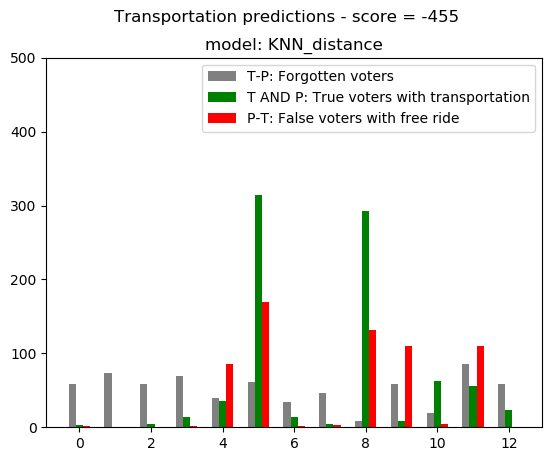
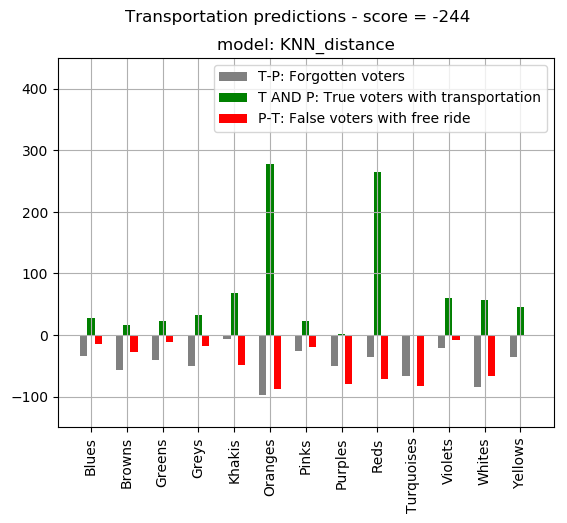
first part looks finished

diff --git a/report.tex b/report.tex
@@ -263,90 +263,79 @@ To visualize the prediction results on validation set we will use histogram of t
 
 \begin{figure}[htp]
 \centering
-\includegraphics[width=.3\textwidth]{Winner_party_plots/SVM_rbf_fig}\quad
-\includegraphics[width=.3\textwidth]{Winner_party_plots/KNN_distance_fig}\quad
-\includegraphics[width=.3\textwidth]{Winner_party_plots/Random_Forest_fig}
+\includegraphics[width=.4\textwidth]{Winner_party_plots/SVM_rbf_fig}
+\includegraphics[width=.4\textwidth]{Winner_party_plots/KNN_distance_fig}
+\includegraphics[width=.4\textwidth]{Winner_party_plots/Random_Forest_fig}
+\includegraphics[width=.4\textwidth]{Winner_party_plots/MLP[50]_fig}
 \caption{Votes distribution}
 \end{figure}
 
-Looking at the plots we can say that all 3 models predicted the winner party correctly, while SVM and KNN did it with the highest level of certainty, i.e. the majority of the samples where classified according to the real tag majority in the train set. Infinity norm of the prediction histogram of SVM is slightly higher, thus this model is the best model for winner prediction task.
-  
+Looking at the plots we can say that 3 models out of 4, predicted the winner party correctly, while SVM and KNN did it with the highest level of certainty, i.e. the majority of the samples where classified according to the real tag majority in the train set. Infinity norm of the prediction histogram of KNN is slightly higher, thus this model is the best model for winner prediction task.
+
+\newpage
 \subsection{Votes division}
 To visualize the prediction results on validation set we will use histogram of true labels of validation set and predicted labels. According to the metrics we choose for Votes division task, we are interested in model which achieved the smallest Euclidean Distance between the histograms. 
 
 \begin{figure}[htp]
 \centering
-\includegraphics[width=.3\textwidth]{Division_prediction_plots/SVM_rbf_fig}\quad
-\includegraphics[width=.3\textwidth]{Division_prediction_plots/KNN_distance_fig}\quad
-\includegraphics[width=.3\textwidth]{Division_prediction_plots/Random_Forest_fig}
-
+\includegraphics[width=.4\textwidth]{Division_prediction_plots/SVM_rbf_fig}\quad
+\includegraphics[width=.4\textwidth]{Division_prediction_plots/KNN_distance_fig}\quad
+\includegraphics[width=.4\textwidth]{Division_prediction_plots/Random_Forest_fig}
+\includegraphics[width=.4\textwidth]{Division_prediction_plots/MLP[50]_fig}
 \caption{Votes distribution}
 \end{figure}
 
-Looking at the plot we can clearly see that model performance corresponds to the chosen metrics, i.e. the euclidean norm. As stated in previous sections, the most similar histograms have the smallest euclidean distance. In conclusion, Random Forest classifier achieved best performance on validation set with final score of 104, which is the best score among other classifiers. 
+Looking at the plot we can clearly see that model performance corresponds to the chosen metrics, i.e. the euclidean norm. As stated in previous sections, the most similar histograms have the smallest euclidean distance. In conclusion, SVM classifier achieved best performance on validation set with final score of 69, which is the best score among other classifiers. 
 
+\newpage
 \subsection{Voters transportation}
 To visualize the prediction results on validation set we will use bar chart. Each color represents a set of one type, and the bar height, the size of the set. The grey color is a sets of "forgotten" voters, i.e. the voters who are willing to vote for a given party, but not been provided by a transportation. The red color is a sets of votes who are not voting for the party but still got a free ride. The green bar is the voters which will vote and actually get a transportation. Grey and the red bars height effects negativelly on the score, while green bar effects positively.    
 \begin{figure}[h]
 \centering
-\begin{subfigure}{0.3\textwidth}
-  \centering
-  \includegraphics[width=1\linewidth]{Vote_prediction_plots/SVM_rbf_fig.png}
-  \caption{SVM}
-  \label{fig:sub1}
-\end{subfigure}%
-\begin{subfigure}{0.3\textwidth}
-  \centering
-  \includegraphics[width=1\linewidth]{Vote_prediction_plots/KNN_distance_fig}
-  \caption{KNN}
-  \label{fig:sub1}
-\end{subfigure}%
-\begin{subfigure}{0.3\textwidth}
-  \centering
-  \includegraphics[width=1\linewidth]{Vote_prediction_plots/Random_Forest_fig}
-  \caption{Random forest}
-  \label{fig:sub2}
-\end{subfigure}
+\includegraphics[width=.4\linewidth]{Vote_prediction_plots/SVM_rbf_fig.png}
+\includegraphics[width=.4\linewidth]{Vote_prediction_plots/KNN_distance_fig}
+\includegraphics[width=.4\linewidth]{Vote_prediction_plots/Random_Forest_fig}
+\includegraphics[width=.4\linewidth]{Vote_prediction_plots/MLP[50]_fig}
 \caption{Models performance for transportation task}
 \label{fig:test}
 \end{figure}
 
-As we can see on the plots, first two models has very low negative performance score, which means according to their probability predictions the parties will not provide transportation to their potential voters or will give a free ride to people who doesn't want to vote for them. On the other hand, Random forest was much more accurate with it's probability predictions and provided each party a relatively large list of true potential voters. It's important to mention that the probability threshold we used is $0.4$, i.e. the person added to the party's list only if he will vote to this party with probability higher than $0.4$. \\
-\\
-Interestingly, the accuracy measurement of the model corresponds with the transportation task score, thus the model with highest accuracy got the best transportation score, and the model with lowest accuracy got the worst transportation score.
-\begin{verbatim}
-model  SVM_rbf reached  29.133 % accuracy.
-model  KNN_distance reached  25.667 % accuracy.
-model  Random_Forest reached  74.0 % accuracy.
-\end{verbatim}
+As we can see on the plots, KNN has very low negative performance score, which means according to it's probability predictions the parties will not provide transportation to their potential voters or will give a free ride to people who doesn't want to vote for them. On the other hand, MLP was much more accurate with it's probability predictions and provided each party a relatively large list of true potential voters. It's important to mention that the probability threshold we used is $0.5$, i.e. the person added to the party's list only if he will vote to this party with probability higher than $0.5$. Our implementation provides the functionality the set the probability threshold, so the best model for this task depends on this parameter and selected automatically. 
+
 
 \newpage
 \section{Final answers}
-In this section we provide the final answers for the first two prediction tasks and a confusion matrix of the vote prediction of each voter in a test set. 
+In this section we provide the final answers for the first two prediction tasks and a confusion matrix of the vote prediction of each voter in a test set. First of all the best models are:
+
+\begin{verbatim}
+best model for winner prediction is  KNN_distance
+best model for transportation is  MLP[50]
+best model for vote division is  SVM_rbf
+\end{verbatim}
 
 \subsection{Which party will win}
 As described previously, the best model for this task is SVM with RBF kernel, and its final prediction was:
 \begin{verbatim}
-SVM_rbf  prediction - Purples  party will win the elections.
+KNN_distance  prediction -  Purples  party will win the elections.
 \end{verbatim}
 
 \subsection{Votes division}
 As described previously, the best model for this task is Random Forest, and its final prediction was:
 \begin{verbatim}
-Random_Forest  prediction - Vote division:
-Party  Blues : 4.9 %
-Party  Browns : 9.6 %
-Party  Greens : 6.0 %
-Party  Greys : 7.1 %
-Party  Khakis : 25.3 %
-Party  Oranges : 3.7 %
-Party  Pinks : 2.1 %
-Party  Purples : 25.4 %
-Party  Reds : 3.7 %
-Party  Turquoises : 3.0 %
-Party  Violets : 1.3 %
-Party  Whites : 4.5 %
-Party  Yellows : 3.4 %
+SVM_rbf  prediction - Vote division:
+Party  Blues : 5.3 %
+Party  Browns : 8.4 %
+Party  Greens : 4.7 %
+Party  Greys : 6.7 %
+Party  Khakis : 21.5 %
+Party  Oranges : 5.8 %
+Party  Pinks : 3.9 %
+Party  Purples : 22.7 %
+Party  Reds : 5.3 %
+Party  Turquoises : 5.3 %
+Party  Violets : 2.8 %
+Party  Whites : 3.7 %
+Party  Yellows : 3.8 %
 \end{verbatim}
 
 \newpage

diff --git a/model_selector.py b/model_selector.py
@@ -13,7 +13,7 @@ PATH_WINNER_PARTY_PLOTS = 'Winner_party_plots'
 PATH_VOTE_PREDICTION_PLOTS = 'Vote_prediction_plots'
 PATH_DIVISION_PREDICTION_PLOTS = 'Division_prediction_plots'
 PATH_CONFUSION = 'confusion_matrix'
-THRESHOLD_PROBA = 0.4 #40%
+THRESHOLD_PROBA = 0.5 #50%
 EMPTY_DICT = {
     "12": set(),
     "11": set(),
@@ -66,6 +66,11 @@ class modelSelector():
     def get_best_winner_prediction_model(self):
         return self.best_model_for_winner_prediction
 
+    def score_accuracy(self, graphic=True):
+        for model, model_name in zip(self.model_list, self.model_names_list):
+            acc = model.score(self.x_val, self.y_val)
+            print("Model ", model_name, " reached ", np.round(acc*100,2), "% accuracy.")
+
     def score_who_win(self, graphic=True):
         '''
         === This is first mandatory prediction ===
@@ -92,7 +97,7 @@ class modelSelector():
 
             if graphic:
                 supttl = 'Winner party predictions'
-                ttl = 'model: ' + model_name + "inf norm=" + str(curr_norm)
+                ttl = 'model: ' + model_name + " inf norm=" + str(curr_norm)
                 path = PATH_WINNER_PARTY_PLOTS + '\\' + model_name + '_fig.png'
 
                 plot_hist(path, ttl, predictions, self.y_val.tolist(),
@@ -198,12 +203,18 @@ class modelSelector():
             if graphic:
                 index = np.arange(len(forgotten_voters_list))
                 bar_width = 0.2
+                forgotten_voters_list = [-1*i for i in forgotten_voters_list]
+                false_riders_list = [-1*i for i in false_riders_list]
                 plt.bar(index-bar_width, forgotten_voters_list, bar_width, color='grey', label='T-P: Forgotten voters')
                 plt.bar(index, intersec_list, bar_width, color='green', label='T AND P: True voters with transportation')
                 plt.bar(index+bar_width, false_riders_list, bar_width, color='red', label='P-T: False voters with free ride')
                 supttl = 'Transportation predictions - score = ' + str(score)
+                keys = list(self.party_dict.keys())
+                values = list(self.party_dict.values())
+                plt.xticks(keys, values, rotation='vertical')
                 plt.suptitle(supttl)
-                plt.ylim([0,500])
+                plt.ylim([-150,450])
+                plt.grid()
                 ttl = 'model: ' + model_name
                 plt.title(ttl)
                 plt.legend()
@@ -252,7 +263,7 @@ class modelSelector():
         class_names = []
         for key in range(self.num_of_classes):
             class_names.append(self.party_dict[key])
-        plot_confusion_matrix(self.y_test, predictions, title='Confusion matrix (of Random Forest)',classes=class_names)
+        plot_confusion_matrix(self.y_test, predictions, title='Confusion matrix of '+model_name, classes=class_names)
         fig = plt.gcf()
         plt.show()
         path = PATH_CONFUSION + '\\' + 'confusion_fig.png'
@@ -289,7 +300,7 @@ def plot_confusion_matrix(y_true, y_pred, classes,
     else:
         print('Confusion matrix, without normalization')
 
-    print(cm)
+    #print(cm)
 
     fig, ax = plt.subplots()
     im = ax.imshow(cm, interpolation='nearest', cmap=cmap)

diff --git a/main.py b/main.py
@@ -28,26 +28,29 @@ def main():
     # cv.tuneSplitForest()
     # cv.tuneMLP()
 
-    # models = [svm.SVC(kernel='rbf', C=20, gamma='auto', probability=True),
-    #           KNeighborsClassifier(n_neighbors=3, weights='distance'),
-    #           RandomForestClassifier(n_estimators=50, max_depth=8, min_samples_split=0.01)]
-    # model_names = ['SVM_rbf',
-    #                'KNN_distance',
-    #                'Random_Forest']
-    #
-    # sl = modelSelector(id_train, x_train, y_train,
-    #                    id_val, x_val, y_val,
-    #                    id_test, x_test, y_test,
-    #                    models, model_names, dict)
-    # sl.fit()
-    # sl.score_who_win(graphic=True)
-    # #sl.score_transportation_prediction(graphic=True)
-    # sl.score_division_prediction(graphic=True)
-    #
-    # #sl.predict_winner(x_test)
-    # #sl.predict_vote_division(x_test)
-    # #sl.predict_transportation(x_test)
-    # #sl.draw_conf_matrix()
+    models = [svm.SVC(kernel='rbf', C=20, gamma='auto', probability=True),
+              MLPClassifier([50], activation='relu', max_iter=1000),
+              KNeighborsClassifier(n_neighbors=3, weights='distance'),
+              RandomForestClassifier(n_estimators=50, max_depth=8, min_samples_split=0.01)]
+    model_names = ['SVM_rbf',
+                    'MLP[50]',
+                    'KNN_distance',
+                    'Random_Forest']
+
+    sl = modelSelector(id_train, x_train, y_train,
+                       id_val, x_val, y_val,
+                       id_test, x_test, y_test,
+                       models, model_names, dict)
+    sl.fit()
+    sl.score_accuracy()
+    sl.score_who_win(graphic=False)
+    sl.score_transportation_prediction(graphic=False)
+    sl.score_division_prediction(graphic=False)
+
+    sl.predict_winner(x_test)
+    sl.predict_vote_division(x_test)
+    sl.predict_transportation(x_test)
+    sl.draw_conf_matrix()
     #
     # model = sl.get_best_winner_prediction_model()
     # feature_names = dp.get_feature_names()

diff --git a/hist_plotter.py b/hist_plotter.py
@@ -3,14 +3,14 @@ import numpy as np
 
 
 def plot_hist(path, title, hist1, hist2, lbl1, lbl2, dict, save=True, suptitle=None):
-    plt.hist([hist1, hist2], bins=np.arange(13) - 0.5, label=[lbl1, lbl2])
+    plt.hist([hist1, hist2], bins=np.arange(14) - 0.5, label=[lbl1, lbl2])
     plt.xlim([-1, 13])
     plt.legend()
     keys = list(dict.keys())
     values = list(dict.values())
     plt.xticks(keys, values, rotation='vertical')
     plt.ylabel('number of votes')
-    plt.xlabel('party number')
+    plt.xlabel('party name')
     if suptitle is not None:
         plt.suptitle(suptitle)
     plt.title(title)
